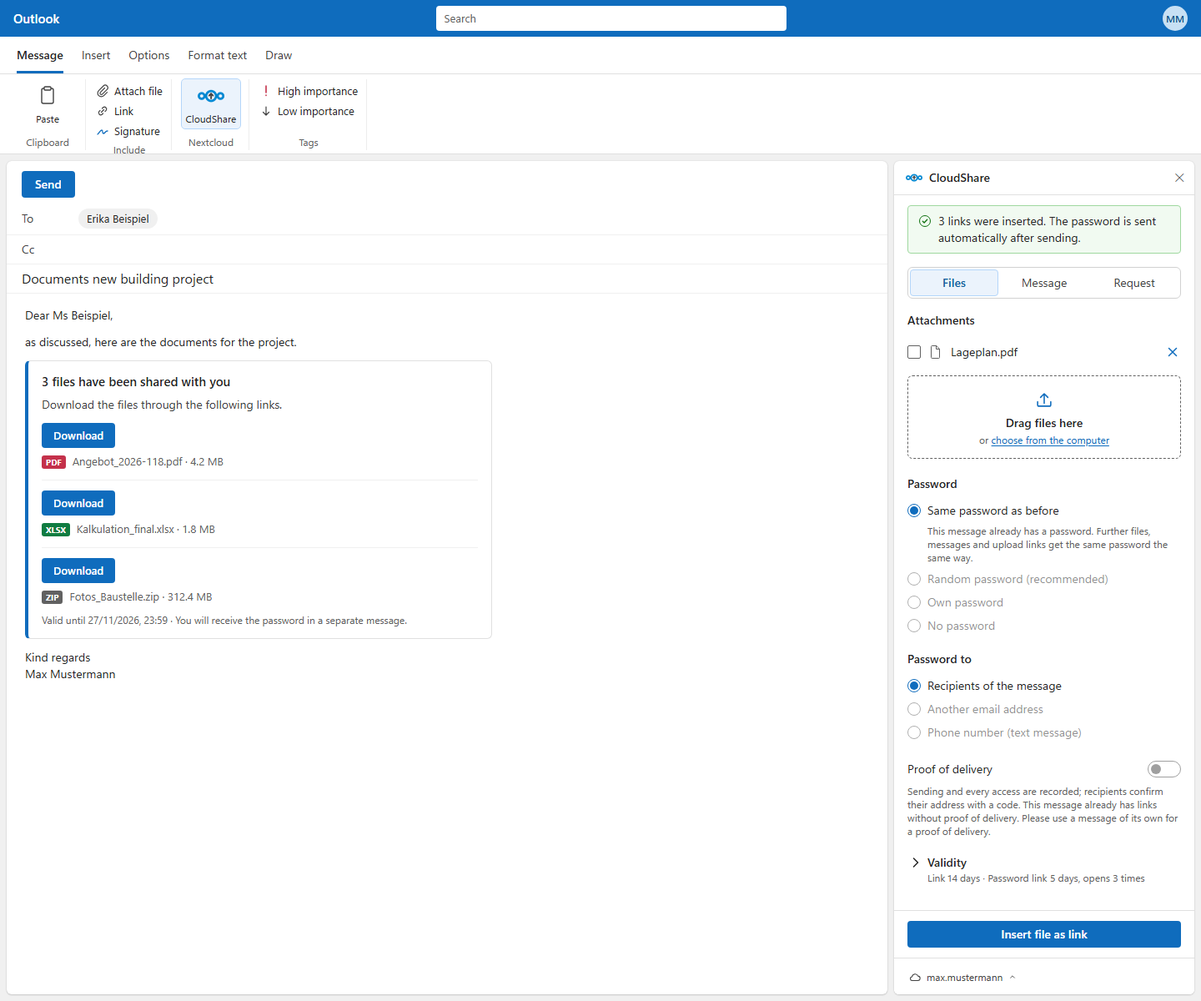
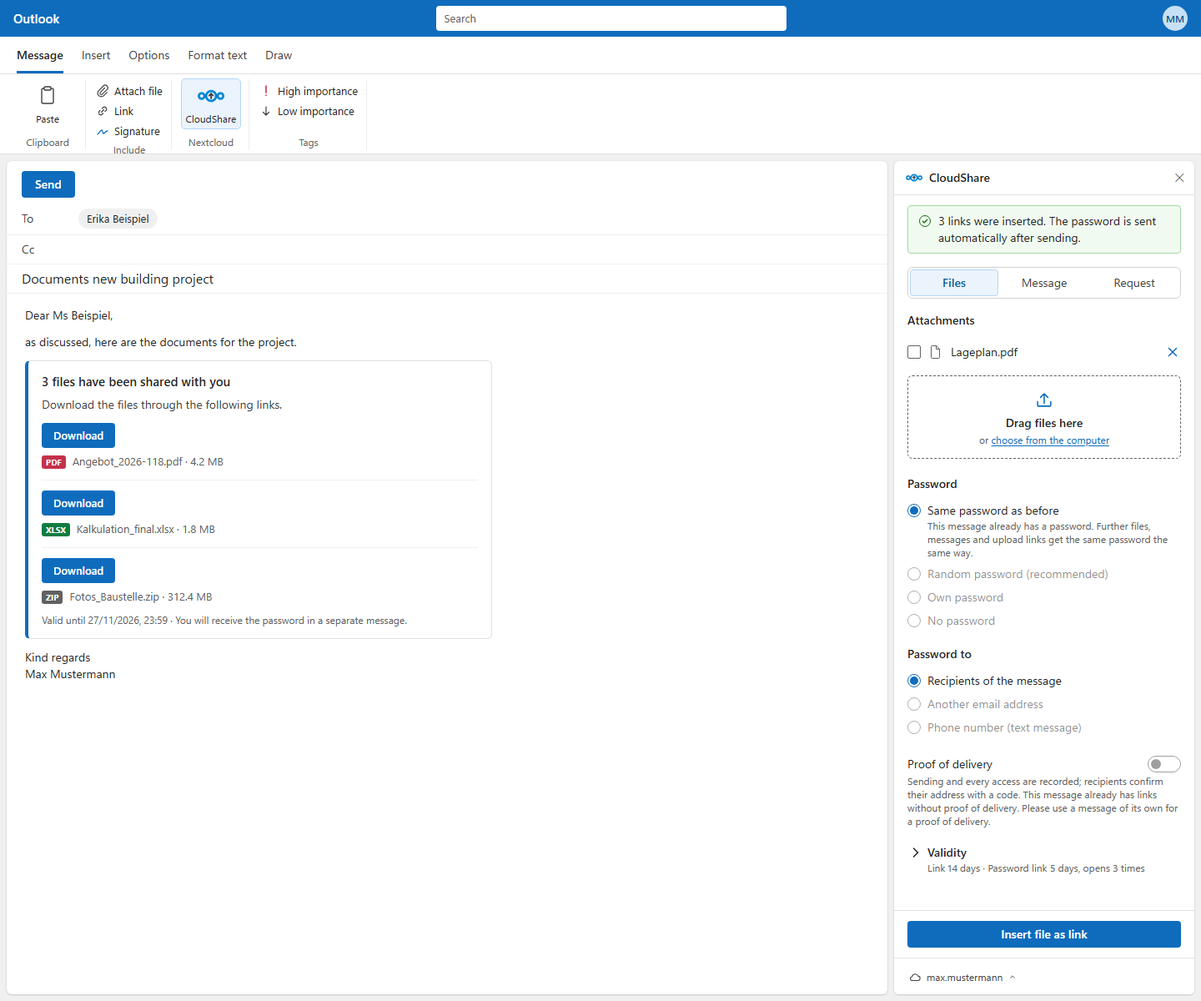
Descriptions as close to their item as the line under "Gültigkeit"
Every description under an item – option, switch, field, select, rules –
now sits as close as the summary under "Gültigkeit" (5–6px from the item's
bottom to the description's letters in the rendered pane). The address field
no longer adds 4px below itself (its hint always follows). Rule in
taskpane.css and CLAUDE.md; compose mockup re-rendered.

Changed region(s): [[0.75, 0.5242, 0.9688, 0.8942]]

diff --git a/addin/src/taskpane/taskpane.css b/addin/src/taskpane/taskpane.css
@@ -115,11 +115,11 @@ section > .section-title:first-child { margin-top: 16px; }
 .caption, .hint { font-size: 12px; line-height: 16px; color: var(--fg3); margin: 4px 0 0; }
 /* Below the password: why nothing can be inserted (mail already has links without password). */
 .hint.warning { color: var(--danger-fg); }
-/* A description under an item looks the same everywhere: 12px from the bottom of the item (its letters, a field's or
-   a switch's edge) to the top of the description's letters, measured in the rendered pane. The empty space around the
-   lines differs, so the margins do: under a field 8px, under an option (4px padding of its row) 2px, under a switch
-   8px, under the rules of an own password 5px. */
-:is(.input-group, .select-wrap, .textarea) + .hint, .hint-row .hint { margin-top: 8px; }
+/* A description under an item sits as close as the line under "Gültigkeit" everywhere: 5px from the bottom of the item
+   (its letters, a field's or a switch's edge) to the top of the description's letters, measured in the rendered pane.
+   The empty space around the lines differs, so the margins do: under a field or a switch 2px, under an option (4px
+   padding of its row) -4px, under the rules of an own password -1px. */
+:is(.input-group, .select-wrap, .textarea) + .hint, .hint-row .hint { margin-top: 2px; }
 a { color: var(--brand-fg); text-decoration: none; }
 a:hover { color: var(--brand-fg-hover); text-decoration: underline; }
 /* Links inside running text must not rely on colour alone (WCAG 1.4.1, axe link-in-text-block). */
@@ -296,18 +296,18 @@ a:hover { color: var(--brand-fg-hover); text-decoration: underline; }
 /* The password field, its rules and the hint indented below the chosen option (dot 16px + gap 8px), like "Kennwort an". */
 .password-field > .input-group, .password-field > .rules, .password-field > #password-hint { margin-left: 24px; }
 /* Like the hint under "Kennwort an": right below its option, the same gap above and below. */
-.password-field > #password-hint { margin-top: 2px; margin-bottom: 4px; }
+.password-field > #password-hint { margin-top: -4px; margin-bottom: 4px; }
 /* After the rules of an own password (not right below an option) the hint needs the same gap as below it. */
-.password-field > .rules:not([hidden]) + #password-hint { margin-top: 5px; } /* a hidden list is still the neighbour */
+.password-field > .rules:not([hidden]) + #password-hint { margin-top: -1px; } /* a hidden list is still the neighbour */
 .proof-row { margin-top: 20px; }
 /* "Kennwort an": radio buttons like the password choices; the address or number field and its hint indented below the
    chosen option (the width of the dot plus its gap). */
 .channel-options .channel-group, .channel-options > .hint { margin-left: 24px; }
-.channel-options .channel-group { margin-top: 3px; margin-bottom: 4px; }
+.channel-options .channel-group { margin-top: 3px; margin-bottom: 0; } /* its hint always follows */
 /* The same gap above (to the field) and below (to the next way), like the hint under the password. */
-.channel-options > .hint { margin-top: 2px; margin-bottom: 4px; }
+.channel-options > .hint { margin-top: -4px; margin-bottom: 4px; }
 /* … with 4px only when the address or number field is shown above it (a hidden field is still a neighbour). */
-.channel-options > .channel-group:not([hidden]) ~ .hint { margin-top: 8px; margin-bottom: 2px; }
+.channel-options > .channel-group:not([hidden]) ~ .hint { margin-top: 2px; margin-bottom: 2px; }
 .inline-row { display: grid; grid-template-columns: 7em minmax(0, 1fr); align-items: center; column-gap: 12px; }
 .inline-label { color: var(--fg1); }
 .visually-hidden { position: absolute; width: 1px; height: 1px; overflow: hidden; clip: rect(0 0 0 0); white-space: nowrap; }
@@ -322,11 +322,11 @@ a:hover { color: var(--brand-fg-hover); text-decoration: underline; }
 /* Fixed for this mail (it has links with or without a proof already): greyed out like Outlook's locked switches. */
 .switch input:disabled, .switch:has(input:disabled) { cursor: not-allowed; }
 .switch input:disabled + .switch-track { opacity: .5; }
-.switch-field .hint { margin-top: 8px; }
+.switch-field .hint { margin-top: 2px; }
 /* An option that does not exist for the chosen kind: greyed out, the reason as a hint below it – indented like the hint
    under a chosen option (showUnavailable). */
 .unavailable .radio { cursor: default; }
-.unavailable .why { margin: 2px 0 4px 24px; }
+.unavailable .why { margin: -4px 0 4px 24px; }
 /* "Kennwort senden an": native select in the look of the inputs, own chevron (follows the theme colours). */
 .select-wrap { position: relative; }
 .select-wrap::after {
@@ -339,7 +339,7 @@ a:hover { color: var(--brand-fg-hover); text-decoration: underline; }
 .suffix { color: var(--fg2); }
 /* Confidential message: multi-line, grows by hand, same look as the inputs. */
 .input.textarea { display: block; width: 100%; height: auto; min-height: 92px; padding: 6px 10px; resize: vertical; }
-#message-count { margin: 8px 0 0; }
+#message-count { margin: 2px 0 0; }
 #message-count.over { color: var(--danger-fg); }
 
 /* --- Checkbox ------------------------------------------------------------------ */

diff --git a/CLAUDE.md b/CLAUDE.md
@@ -22,7 +22,7 @@ One container serves everything behind Caddy:
 - `server/` – Fastify backend (ESM, TypeScript). Validates the Office SSO token (`auth.ts`, audience `api://<host>/<client-id>`, scope `access_as_user`) and uses MSAL On-Behalf-Of only for Graph (`Mail.Send`).
 - Nextcloud does not accept Entra tokens (typically it logs in via another IdP, e.g. Keycloak through `user_oidc`). Instead each user connects once via Nextcloud Login Flow v2; the resulting app password is stored encrypted per Entra `oid` in the database (`credentials.ts`, store `credentials`, key `CREDENTIAL_KEY`) and used as Basic auth. A 401 from Nextcloud deletes the stored credential and returns error code `NEXTCLOUD_NOT_CONNECTED`, which makes the taskpane show the connect view.
 - Nextcloud access is server-to-server (no CORS on Nextcloud): WebDAV chunked upload v2 + OCS share API (`nextcloud.ts`). Nextcloud-reported URLs are rewritten onto `NEXTCLOUD_URL`. Vaultwarden Sends are created through `bw serve` running in the same container on 127.0.0.1:8087 with a service account (`vaultwarden.ts`). Upload/job/pending-login state is in-memory (`store.ts`) → single instance only.
-- `addin/` – XML manifest + taskpane (Nextcloud connect/disconnect, converts existing attachments via `getAttachmentContentAsync` → upload → `removeAttachmentAsync`, plus file picker (`window.showOpenFilePicker` first, hidden `<input type="file">` as fallback – classic Outlook's WebView did not reliably open the dialog for a file input; steps are traced with `CLIENT_TRACE`) and drag & drop onto the "Senden" tab for files beyond Outlook's limit – in classic Outlook the WebView2 file dialog sometimes opens behind the Outlook window; inserts links) + event handlers in `commands.ts`: `OnMessageAttachmentsChanged` shows an InsightMessage with a "open taskpane" action (add-ins cannot open the taskpane themselves), `OnMessageRecipientsChanged` runs the same check (the size is the total of all attachments of the mail, and it depends on the recipients: `ATTACHMENT_THRESHOLD_MB` as soon as one is outside `INTERNAL_DOMAINS` – default the user's own domain –, else `ATTACHMENT_THRESHOLD_INTERNAL_MB` and `ATTACHMENT_POLICY_INTERNAL`, also without recipients; `attachmentRule` in `shared/office.ts`, 0 = every attachment, texts without a size; in the pane every attachment is ticked whatever its size, an unticked one stays unticked on redraw; every file row has an "×" that removes the file – no "Groß" mark), `OnMessageSend` runs with manifest `SendMode="SoftBlock"`; env `ATTACHMENT_POLICY` (served via `/api/config`, cached in `roamingSettings`) decides: `enforce` blocks large attachments before arming the password mail (no "Send anyway"), `suggest` arms the password mail first and relaxes to PromptUser via `sendModeOverride` (Mailbox 1.14). The taskpane mimics Outlook (Fluent 2 tokens, Office theme, Outlook wording "Nachricht"/"Kennwort") – keep new UI consistent with that. A description (`.hint`) under an item – option, switch, field, select – sits 12px below it everywhere, measured in the rendered pane from the item's bottom (letters or edge) to the top of the description's letters; the margins differ by item (comment in `taskpane.css`) – check new hints against it, and remember that a hidden element is still a CSS neighbour (use `:not([hidden])`). While something loads – the start of the pane (`#start-view` in `taskpane.html`), "Verlauf", "Zustellnachweise", the links of a mail being read, settings not loaded yet – grey shimmering placeholders in the shape of the content show (`skeleton.ts`: `skeletonRows`, `skeletonForm`; role status, "Wird geladen …" for screen readers, no shimmer with reduced motion); a reload keeps the list in sight, a failure removes them. The message bar stays in sight at the top while the pane scrolls (`position: sticky`). Messages run down (`SUCCESS_MESSAGE_SECONDS`, default 5: a ring around the tick, "!" or "i" empties clockwise, paused on hover/focus, `setStatus`); progress (kind `progress`) and messages with "Erneut versuchen" stay. Bundled as IIFE because classic Outlook runs the handlers in a JavaScript-only runtime (no DOM, no ES modules); `commands.js` is built with target `es2016` and without `Headers`/`Promise.finally` (guarded by `addin/test/bundle.test.ts`); it registers its handlers immediately (classic) and again in `Office.onReady` (browser runtime: office.js loads `Office.actions` only after the script ran – `commands-load.test.ts`), and that runtime only allows SSO and fetch because the server serves `/.well-known/microsoft-officeaddins-allowed.json` listing `commands.js`.
+- `addin/` – XML manifest + taskpane (Nextcloud connect/disconnect, converts existing attachments via `getAttachmentContentAsync` → upload → `removeAttachmentAsync`, plus file picker (`window.showOpenFilePicker` first, hidden `<input type="file">` as fallback – classic Outlook's WebView did not reliably open the dialog for a file input; steps are traced with `CLIENT_TRACE`) and drag & drop onto the "Senden" tab for files beyond Outlook's limit – in classic Outlook the WebView2 file dialog sometimes opens behind the Outlook window; inserts links) + event handlers in `commands.ts`: `OnMessageAttachmentsChanged` shows an InsightMessage with a "open taskpane" action (add-ins cannot open the taskpane themselves), `OnMessageRecipientsChanged` runs the same check (the size is the total of all attachments of the mail, and it depends on the recipients: `ATTACHMENT_THRESHOLD_MB` as soon as one is outside `INTERNAL_DOMAINS` – default the user's own domain –, else `ATTACHMENT_THRESHOLD_INTERNAL_MB` and `ATTACHMENT_POLICY_INTERNAL`, also without recipients; `attachmentRule` in `shared/office.ts`, 0 = every attachment, texts without a size; in the pane every attachment is ticked whatever its size, an unticked one stays unticked on redraw; every file row has an "×" that removes the file – no "Groß" mark), `OnMessageSend` runs with manifest `SendMode="SoftBlock"`; env `ATTACHMENT_POLICY` (served via `/api/config`, cached in `roamingSettings`) decides: `enforce` blocks large attachments before arming the password mail (no "Send anyway"), `suggest` arms the password mail first and relaxes to PromptUser via `sendModeOverride` (Mailbox 1.14). The taskpane mimics Outlook (Fluent 2 tokens, Office theme, Outlook wording "Nachricht"/"Kennwort") – keep new UI consistent with that. A description (`.hint`) under an item – option, switch, field, select – sits as close as the line under "Gültigkeit" everywhere (5–6px in the rendered pane from the item's bottom – letters or edge – to the top of the description's letters); the margins differ by item (comment in `taskpane.css`) – check new hints against it, and remember that a hidden element is still a CSS neighbour (use `:not([hidden])`). While something loads – the start of the pane (`#start-view` in `taskpane.html`), "Verlauf", "Zustellnachweise", the links of a mail being read, settings not loaded yet – grey shimmering placeholders in the shape of the content show (`skeleton.ts`: `skeletonRows`, `skeletonForm`; role status, "Wird geladen …" for screen readers, no shimmer with reduced motion); a reload keeps the list in sight, a failure removes them. The message bar stays in sight at the top while the pane scrolls (`position: sticky`). Messages run down (`SUCCESS_MESSAGE_SECONDS`, default 5: a ring around the tick, "!" or "i" empties clockwise, paused on hover/focus, `setStatus`); progress (kind `progress`) and messages with "Erneut versuchen" stay. Bundled as IIFE because classic Outlook runs the handlers in a JavaScript-only runtime (no DOM, no ES modules); `commands.js` is built with target `es2016` and without `Headers`/`Promise.finally` (guarded by `addin/test/bundle.test.ts`); it registers its handlers immediately (classic) and again in `Office.onReady` (browser runtime: office.js loads `Office.actions` only after the script ran – `commands-load.test.ts`), and that runtime only allows SSO and fetch because the server serves `/.well-known/microsoft-officeaddins-allowed.json` listing `commands.js`.
 - Taskpane has no tabs: the view is "Senden" (reading a mail: the links of that mail, `#panel-mail`, `currentView`); "Verlauf" (`#shares-open`, right above "Zustellnachweise" in the account menu) is a page like the settings with a search `#shares-search` (`/api/shares`: all valid links, loaded when opened and on focus – no refresh button; one quiet bottom bar `.account-bar` under every tab, the help and the settings (one line: the account as a menu button `#account-toggle` like Outlook's profile menu – `#account-menu` opens above it with icon entries "Nextcloud öffnen" `#nextcloud-open` (NEXTCLOUD_URL from `/api/config` in the default browser, `openBrowserWindow`), "Zustellnachweise" `#proofs-open` (only with DELIVERY_PROOF: every proof, searchable), "Einstellungen" `#settings-open`, "Feedback senden" `#feedback-open` (only with `FEEDBACK_MAIL`: a page `#panel-feedback` – problem or suggestion, text, technical details shown before they go – mailed by `POST /api/feedback` from the user's own mailbox to that address, never anything public; `feedback.ts` in add-in and server, `docs/architecture.md` 2.15), "Hilfe" `#help-toggle` and "Verbindung trennen" `#disconnect` (two clicks like "Zurückziehen": `armDisconnect`), closes on Escape or a click elsewhere; its head `.account-menu-head` shows the whole name `#account-menu-name` and the storage `#account-storage` with a bar `#storage-meter` (used share of the quota, red from 90 %) – nothing else in the bar; fixed height `--bar-height`, the "Senden" footer sticks above it; variants are shown to the user before UI changes like this); one entry per link or confidential message: title = subject of its sent mail (`history.ts`, store `sent-mails`, Graph ID with `Prefer: IdType="ImmutableId"`; a click opens the mail via `openSentMail`: `GET /api/shares/:id/mail` translates the stored immutable ID into the current EWS ID with Graph `translateExchangeIds`, then `displayMessageFormAsync` – own mailbox only), below it plain text (file name, "Dateianforderung", "Vertrauliche Nachricht"), the kind as the symbol on the left (document, upload arrow, envelope with lock – no labels or coloured badges) (before sending: the draft's subject, sent with every link request as `subject`, `recordDraftSubject`; a subject typed later follows via `PATCH /api/jobs/:id` from the 4-second check `syncDraftSubject`; unsent without subject "(Noch kein Betreff)", older entries "(Betreff unbekannt)"), icon buttons Kopieren/Kennwort/Einfügen/Zurückziehen next to the title (messages: store `messages`, token `msg-<Send ID>`, only Kennwort and Zurückziehen – CloudShare never keeps their key) (long names shortened in the middle, extension kept – `nameParts`) (`ICONS` in `taskpane.ts`, also filled into the help via `data-icon`) and the same lines as an entry of "Zustellnachweise" – "<day> · Nachricht an <To, Cc>" – "<day> · Nachricht und Kennwort an …" with the password line hidden when the password went by mail to exactly those addresses (`sameAddresses`) –, the password line, "Gültig bis <day>" with a calendar (`.share-valid`, `fillValidLine`, orange `--warning-fg` from two days before the end; a finished proof "Aufbewahrt bis <day>"), the state alone on the last line, shortened with "…" (password line: "Kennwort an <address>" / "Kennwort an <masked number> – <SMS state>", the time of the delivery in its tooltip; the same line in "Zustellnachweise"; dates always dd.mm.yyyy, times "HH:MM Uhr"; a delivery proof is a small seal `.proof-seal` after the file name that opens its PDF); revoke via `DELETE /api/shares/:id`, `revokeShare` in `shares.ts`; links are created on insert, so links whose job has not been dispatched are marked `unsent` – a job that expires without ever being armed (draft discarded, `armedOnce: false`) gets its links revoked by the watcher via `onUnsentExpired`/`revokeUnsentLinks`); "Hilfe" in the account menu (`#help-toggle`, `showHelp`) shows the guide in place of the current tab, searchable via the magnifier in its head (`helpSearch.ts`: sections without a hit hidden, hits marked) – a user guide for everyday users, `<details>` sections with texts `help.*` in the language files (keep it in plain words and in step with the UI when features change). "Senden" starts with a switch (`kind` radios, `selectKind`/`renderKind` in `taskpane.ts`) between "Dateien" (attachments + drop zone), "Nachricht" ("Vertrauliche Nachricht" via `/api/messages` = a Vaultwarden text Send protected with the step password, never stored in Nextcloud) and "Anfordern" (upload link via `/api/requests`); only the chosen part is shown and the single footer button `#submit` names what it inserts (`renderSubmit`). Below: password (radio buttons; only "Eigenes Kennwort" shows a field – with rules – indented under it, a random password is never shown; the hint under the chosen option – `setPasswordMode`) with "Kennwort an" (own heading like "Kennwort", radio buttons `#password-channel`, address or number field indented under the chosen one, `#password-to-field`) right below it – no heading "Empfänger" any more –, then for files the switch "Zustellnachweis" as a row of its own (`#proof`, `role="switch"`, `.proof-row`), label and control in one row (`.inline-row`); and "Gültigkeit" collapsed behind a one-line summary of the times (`renderValidity`). "Ohne Kennwort" is only offered for "Dateien" – prevent invalid choices in the UI rather than reporting them after the click, and say why: an option that does not exist for the chosen kind stays greyed out with the reason as a hint right below it – no "i" (`showUnavailable`, `#mode-none-unavailable`); "Zustellnachweis" is not shown at all for "Nachricht"/"Anfordern". Read mode: the manifest also has a pinnable `MessageReadCommandSurface` button (plus legacy `ItemRead` form) opening `taskpane.html?view=read` (`readMode`, `startReadView`) – tabs "Nachricht" (`#tab-mail`/`#panel-mail`: the shares whose token (`/s/<token>`) appears in the read mail's body, `mailTokens`; selected again on `ItemChanged`, in place of "Senden") and "Verlauf" (all valid links, as when writing); no server-side mail↔share mapping, no new permissions. A manifest change needs a new `<Version>`. Links are inserted (the first at the cursor, every further one right after the last CloudShare card wherever the cursor is – `cardPlace.ts`, `insertAfterLastCard`, body written back with `body.setAsync`) as an email-safe HTML card (`addin/src/taskpane/mailCard.ts`, tables + inline styles, one layout for files, message and upload link: title, a short sentence, the button on the left, details in grey below – per file a block –, buttons as filled table cells for classic Outlook, no signature – the sender's signature goes into the password mail, see below).
 - Personal settings ("Einstellungen" `#settings-open` in the account menu of the bottom bar, `#panel-settings` shown in place of the view like the help – `showOverlay`; history, settings, proofs and help are pages of their own in place of the view, "←" before the title or Escape leads back; every change saved at once, no save button – notices and signature in sight, ways, languages and "Zurücksetzen" under "Weitere Einstellungen" `#settings-more`): add-in `settings.ts` (form, `loadSettings`, `userSettings`), server `settings.ts` (store `settings`, `retention: false`, only changed fields; `settingsFor` = `config.userDefaults` from `DEFAULT_*` + stored + `availableSettings`), `/api/settings` GET/PUT/DELETE. Covers the offered password ways and the preselected one (`applyChannelChoices`, keeps the way a mail already uses), the notices (checked in `attachNoticeJob`, `runNotices`, `noteUndeliveredSms`; only where the server switch is on), the add-in language (`auto` or a code, also in `roamingSettings` `cloudshare-settings` → `preferredLanguage` in `i18n.ts`; reload once when it differs) and the signature of the mails to the recipients (password mail, code mail; `server/src/signature.ts`, `signatureHtml`: own text or else `MAIL_FOOTER`, plain text only – deliberately no formatted/HTML signature; empty line = paragraph (`signatureParagraphs`), profile placeholders via `fillTemplate`, escaped, each paragraph a `<p>` in `TEXT_STYLE` like "Guten Tag"; fixed in `PasswordJob.signature` when arming, built anew for "send again"). The link card carries no signature; every mail CloudShare sends to recipients (password mail, the code mail of the delivery proof) ends with the sender's signature (`PasswordRef.signature` is stored for every step). SMS rules and server switches are never user settings. Keep the help section `help.settings.*` in step.
 - Per-draft state lives in `item.sessionData` (`DraftState` in `shared/office.ts`: `jobId`, `password`, `noPassword`, `maxAccess`, `passwordTo` = other password recipient (job field, only that address gets the password mail), `separate` = password and password mail in steps (`step` ID per click, `PasswordJob.separate`) – one step per mail: `lastStep` = ID and password of the step with the password – after it "Gleiches Kennwort wie zuvor" (`#mode-same`) is selected, "Zufällig"/"Eigenes"/"Ohne Kennwort" and "Kennwort an" greyed out (`lockSeparate`, `lockChannel`; server `assertOnePassword`, 409 `ONE_PASSWORD`) and every further click reuses that step (`stepForClick`, joins the part on the server: one password, one password mail/SMS for files, message and upload link), `links` = share tokens of inserted links; if none of them is left in the body, `releaseDraftIfLinksGone` drops job/password/tag – taskpane on focus and every 4 s while locked, send handler before arming; drafts without `links` are never released). All files of one mail share one password, one Vaultwarden Send and one password mail (or, with "Ohne Kennwort" – file links only, `noPassword: true` on `/complete` – no password, no Send; with `DOWNLOAD_NOTICE` a job without password (`PasswordJob.noPassword`, `noticeShares`) only waits for the sent mail to register the download confirmation; `DraftState.noPassword` + `jobId`). With "per SMS" the pane hides "Kennwort abrufbar"/"Kennwort-Link gültig für" and SMS steps get Sends with `SEND_MAX_EXPIRE_DAYS`; the backend appends to an existing job via `jobId` on `/complete` unless it was already dispatched. The password mail is sent only after the mail was really sent: the taskpane tags the draft with the Office.js custom property `cloudshareJob` (MAPI `cecp-<add-in ID>`, `ADDIN_ID` env must match the manifest `<Id>`), the send handler only arms the job (`/api/jobs/:id/arm`, stores a Graph token with Mail.Read(.Shared) + Mail.Send(.Shared); the handler passes a "From" that differs from the user so shared-mailbox "Sent Items" are searched too and the password mail uses the same sender), and `server/src/jobs.ts` polls "Sent Items" and then mails the actual recipients. Password channel per insertion (while typing another address or SMS number the pane suggests the user's own Outlook contacts – `contactSuggest.ts`, `GET /api/contacts`; the address book button next to the field opens them A to Z on the page "Adressbuch" `#panel-contacts`, `addressBook.ts`, `?all=1`, back to the page it was opened from; "Erneut senden an" in "Verlauf" has both too (radio buttons like "Kennwort an", preselected with the first way; the password itself hidden until the eye is clicked, `.reveal-password`), one address like "Kennwort an" – the server refuses a list –, optional delegated `Contacts.Read`, kept in memory only; each link request carries `passwordTo`/`passwordSms`, `deliveryFrom`; a step collects the ways of its links in `SeparatePart.deliveries` and sends each once – `partDeliveries`, `sentWays`; older steps fall back to the job's one way set by `PATCH`/`/arm`): recipients, `passwordTo` or `passwordSms` (seven.io, `sms.ts`, after sending, password read from the Send, webhook `/webhooks/seven`, status in `deliveries.ts`; `SMS_ALLOWED_COUNTRIES` limits the countries by calling code (`countries.ts` reads ISO codes, calling codes, German/English names and groups), `SMS_ALLOWED_NUMBERS`/`SMS_BLOCKED_NUMBERS` are regular expressions on the E.164 number (default blocks 0800/0900/0180; landlines allowed) – `smsNumberProblem` in `sms.ts` and `taskpane.ts`, the pane refuses such numbers while they are entered, the server on `PATCH`/resend and before every SMS; a failed SMS never falls back to another channel – the sender gets a note without password, `smsProblemMailHtml`; a refused SMS right away with the armed token, one reported later as not delivered only with `SMS_NOTICE` (app token; unset it follows `DOWNLOAD_NOTICE`, `envFlag` in `config.ts`)). Sends have two dates: recipients' access ("Kennwort-Link gültig für") and deletion = link expiry, so links with password last at most 30 days (Vaultwarden limit, `passwordLinkMaxDays`); `passwordRefs.ts` stores only the Send ID per sent step so the owner can see and resend the password ("Kennwort" in "Verlauf", `/api/shares/:id/password[/send]`) until the links expire – CloudShare never stores passwords itself; optional `templates.json` (`templates.ts`, user → department → default) and download confirmation (`notices.ts`, app permission `Mail.Send`, `DOWNLOAD_NOTICE`) and upload notification (same module, `UPLOAD_NOTICE`: upload links are `StepShare.request` with `knownFiles`, registered as `kind: "upload"`, each pass mails the new files of the folder until the link expires); every mail CloudShare sends itself (password mail, download confirmation, SMS notes) uses `mailLayout.ts` – text, one card with an accent per kind (blue password, green downloaded, red problem), the line `mail.automatic`; keep new mails in that layout. All persistent state (jobs, password entries, deliveries, notices, the cleanup list of uploaded files – `cleanup.ts`, `CLEANUP_AFTER_DAYS`, deletes upload folders after link expiry – and the Nextcloud connections) lives in one SQLite database `/data/cloudshare.db` (`db.ts`, Node 24 built-in `node:sqlite`): one table `entries (store, key, data)`, every row sealed AES-GCM with `CREDENTIAL_KEY` (`storage.ts`); each module keeps a `PersistentMap` in memory – `set`/`delete` write their row, an entry changed in place needs `map.save(key)`; a daily pass deletes rows not written for `DATA_RETENTION_DAYS` (default 365, `startRetention`), except maps created with `retention: false` (connections, cleanup list). No upload size cap except the user's Nextcloud quota (checked up front via OCS `cloud/user`, 507 → `NEXTCLOUD_QUOTA_EXCEEDED`).
